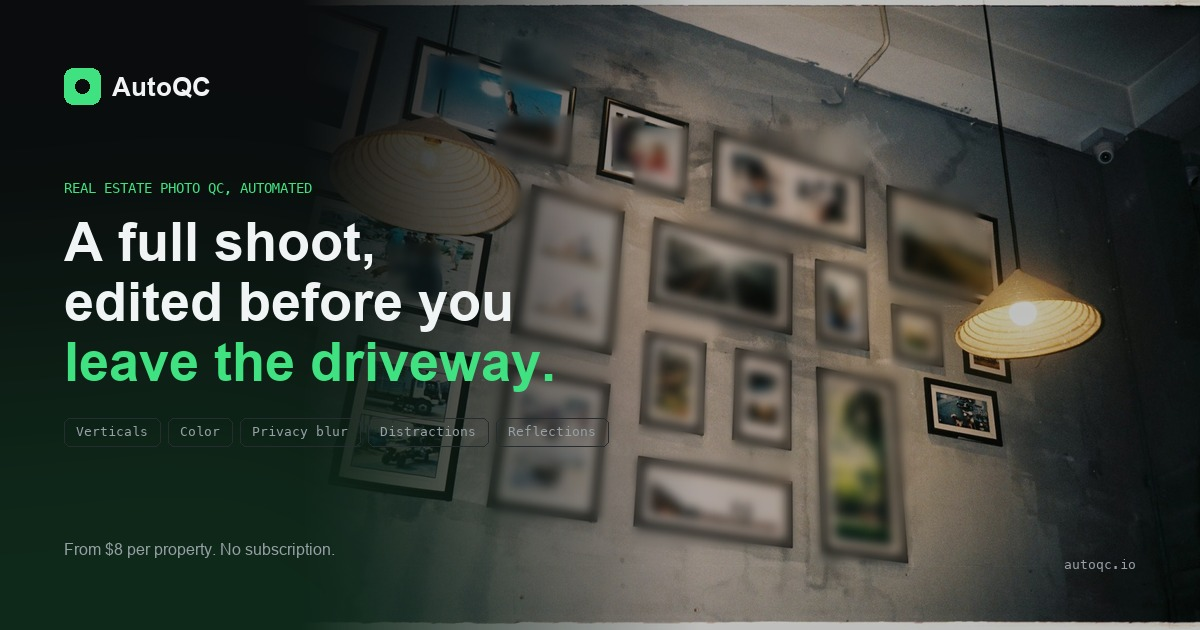
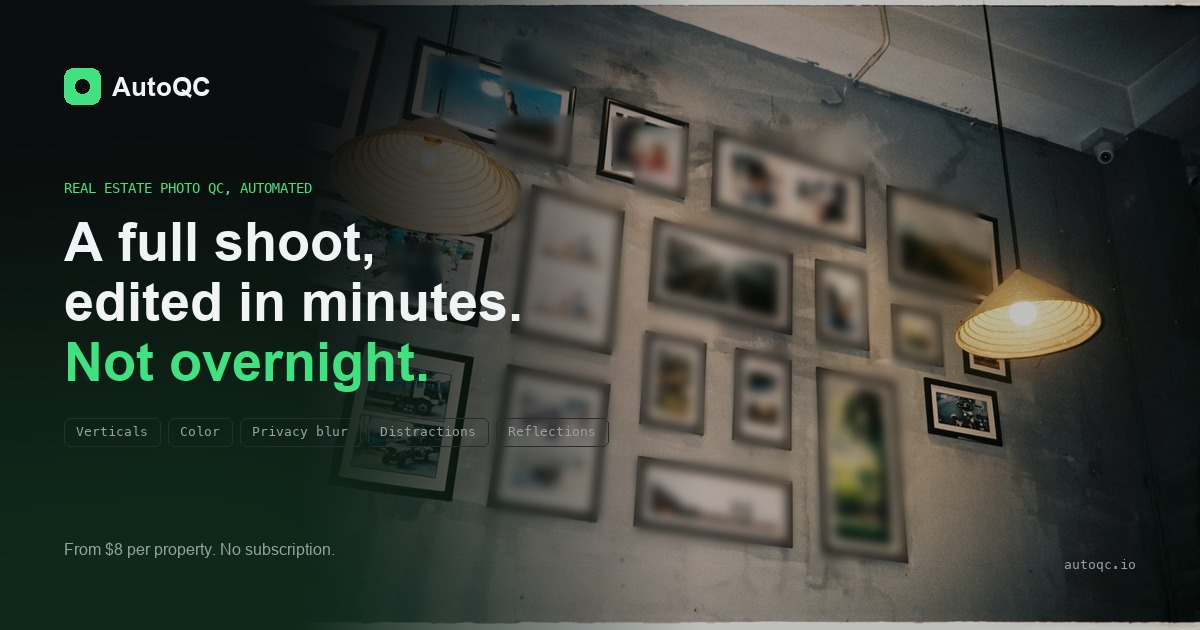
Replace dishonest driveway slogan with accurate minutes claim
Callout from Paul: "edited before you leave the driveway" overstates
what the pipeline actually delivers. A 30 to 60 photo property takes
5 to 10 minutes end to end through the Lambda fleet at observed
concurrency, not 30 seconds.

New honest framing: "A full shoot, edited in minutes. Not overnight."
Claims what the system can actually do (minutes of processing) and
positions against the real competitor (overnight manual editing
workflow) rather than fabricating a timeframe we cannot hit.

Replaced in four places:
 - Hero headline on autoqc.io homepage
 - Hero subhead, now states the honest 10-minute claim for a
   30 to 60 photo property
 - Final CTA: Deliver same-day. Every time.
 - OG image generator script and the resulting og.jpg
 - OG description and alt text in layout.tsx metadata

Regenerated og.jpg. Same visual design, honest copy.

Changed region(s): [[0.0617, 0.4524, 0.4625, 0.6333]]

diff --git a/src/app/page.tsx b/src/app/page.tsx
@@ -167,21 +167,20 @@ export default function LandingPage() {
               variants={fadeUp}
               className="text-4xl md:text-6xl font-semibold tracking-tight leading-[1.05]"
             >
-              A full shoot, reviewed and edited,
+              A full shoot, edited in minutes.
               <br />
-              <span className="text-primary">
-                before the photographer leaves the driveway.
-              </span>
+              <span className="text-primary">Not overnight.</span>
             </motion.h1>
 
             <motion.p
               variants={fadeUp}
               className="text-base md:text-lg text-muted-foreground max-w-2xl mx-auto leading-relaxed"
             >
-              AutoQC ingests your raw upload, scores every shot across nine
-              categories, fixes the mechanical stuff, blurs the private stuff,
-              and cleans up the distractions. You deliver listing-ready photos
-              without opening Lightroom.
+              Upload raw. AutoQC scores every shot across nine categories,
+              fixes the mechanical stuff, blurs the private stuff, and cleans
+              up the distractions. A 30 to 60 photo property finishes in
+              under ten minutes. No Lightroom. No editor queue. Same day
+              delivery, every time.
             </motion.p>
 
             <motion.div
@@ -598,7 +597,7 @@ export default function LandingPage() {
             viewport={{ once: true }}
             className="text-3xl md:text-4xl font-semibold tracking-tight"
           >
-            Ship the shoot before you drive back.
+            Deliver same-day. Every time.
           </motion.h2>
           <motion.p
             initial={{ opacity: 0 }}

diff --git a/src/app/layout.tsx b/src/app/layout.tsx
@@ -19,7 +19,7 @@ const jetbrainsMono = JetBrains_Mono({
 const SITE_URL = "https://www.autoqc.io";
 const OG_TITLE = "AutoQC. Real estate photo QC, automated.";
 const OG_DESCRIPTION =
-  "A full shoot, reviewed and edited, before the photographer leaves the driveway. Verticals, color, exposure, privacy blur, and distraction removal. From $8 per property.";
+  "A full shoot, edited in minutes. Not overnight. Verticals, color, exposure, privacy blur, and distraction removal. From $8 per property.";
 
 export const metadata: Metadata = {
   metadataBase: new URL(SITE_URL),
@@ -36,7 +36,7 @@ export const metadata: Metadata = {
         url: "/og.jpg",
         width: 1200,
         height: 630,
-        alt: "AutoQC. A full real estate photo shoot, edited before you leave the driveway.",
+        alt: "AutoQC. A full real estate photo shoot, edited in minutes. Not overnight.",
       },
     ],
   },

diff --git a/scripts/build_og_image.py b/scripts/build_og_image.py
@@ -134,11 +134,11 @@ def main() -> None:
         fill=ACCENT,
     )
 
-    # Headline (two lines)
+    # Headline (three lines, last one accent)
     headline_font = load(FONT_BOLD, 54)
     draw.text((64, 212), "A full shoot,", font=headline_font, fill=TEXT)
-    draw.text((64, 272), "edited before you", font=headline_font, fill=TEXT)
-    draw.text((64, 332), "leave the driveway.", font=headline_font, fill=ACCENT)
+    draw.text((64, 272), "edited in minutes.", font=headline_font, fill=TEXT)
+    draw.text((64, 332), "Not overnight.", font=headline_font, fill=ACCENT)
 
     # Feature chips
     chip_font = load(FONT_MONO, 13)
